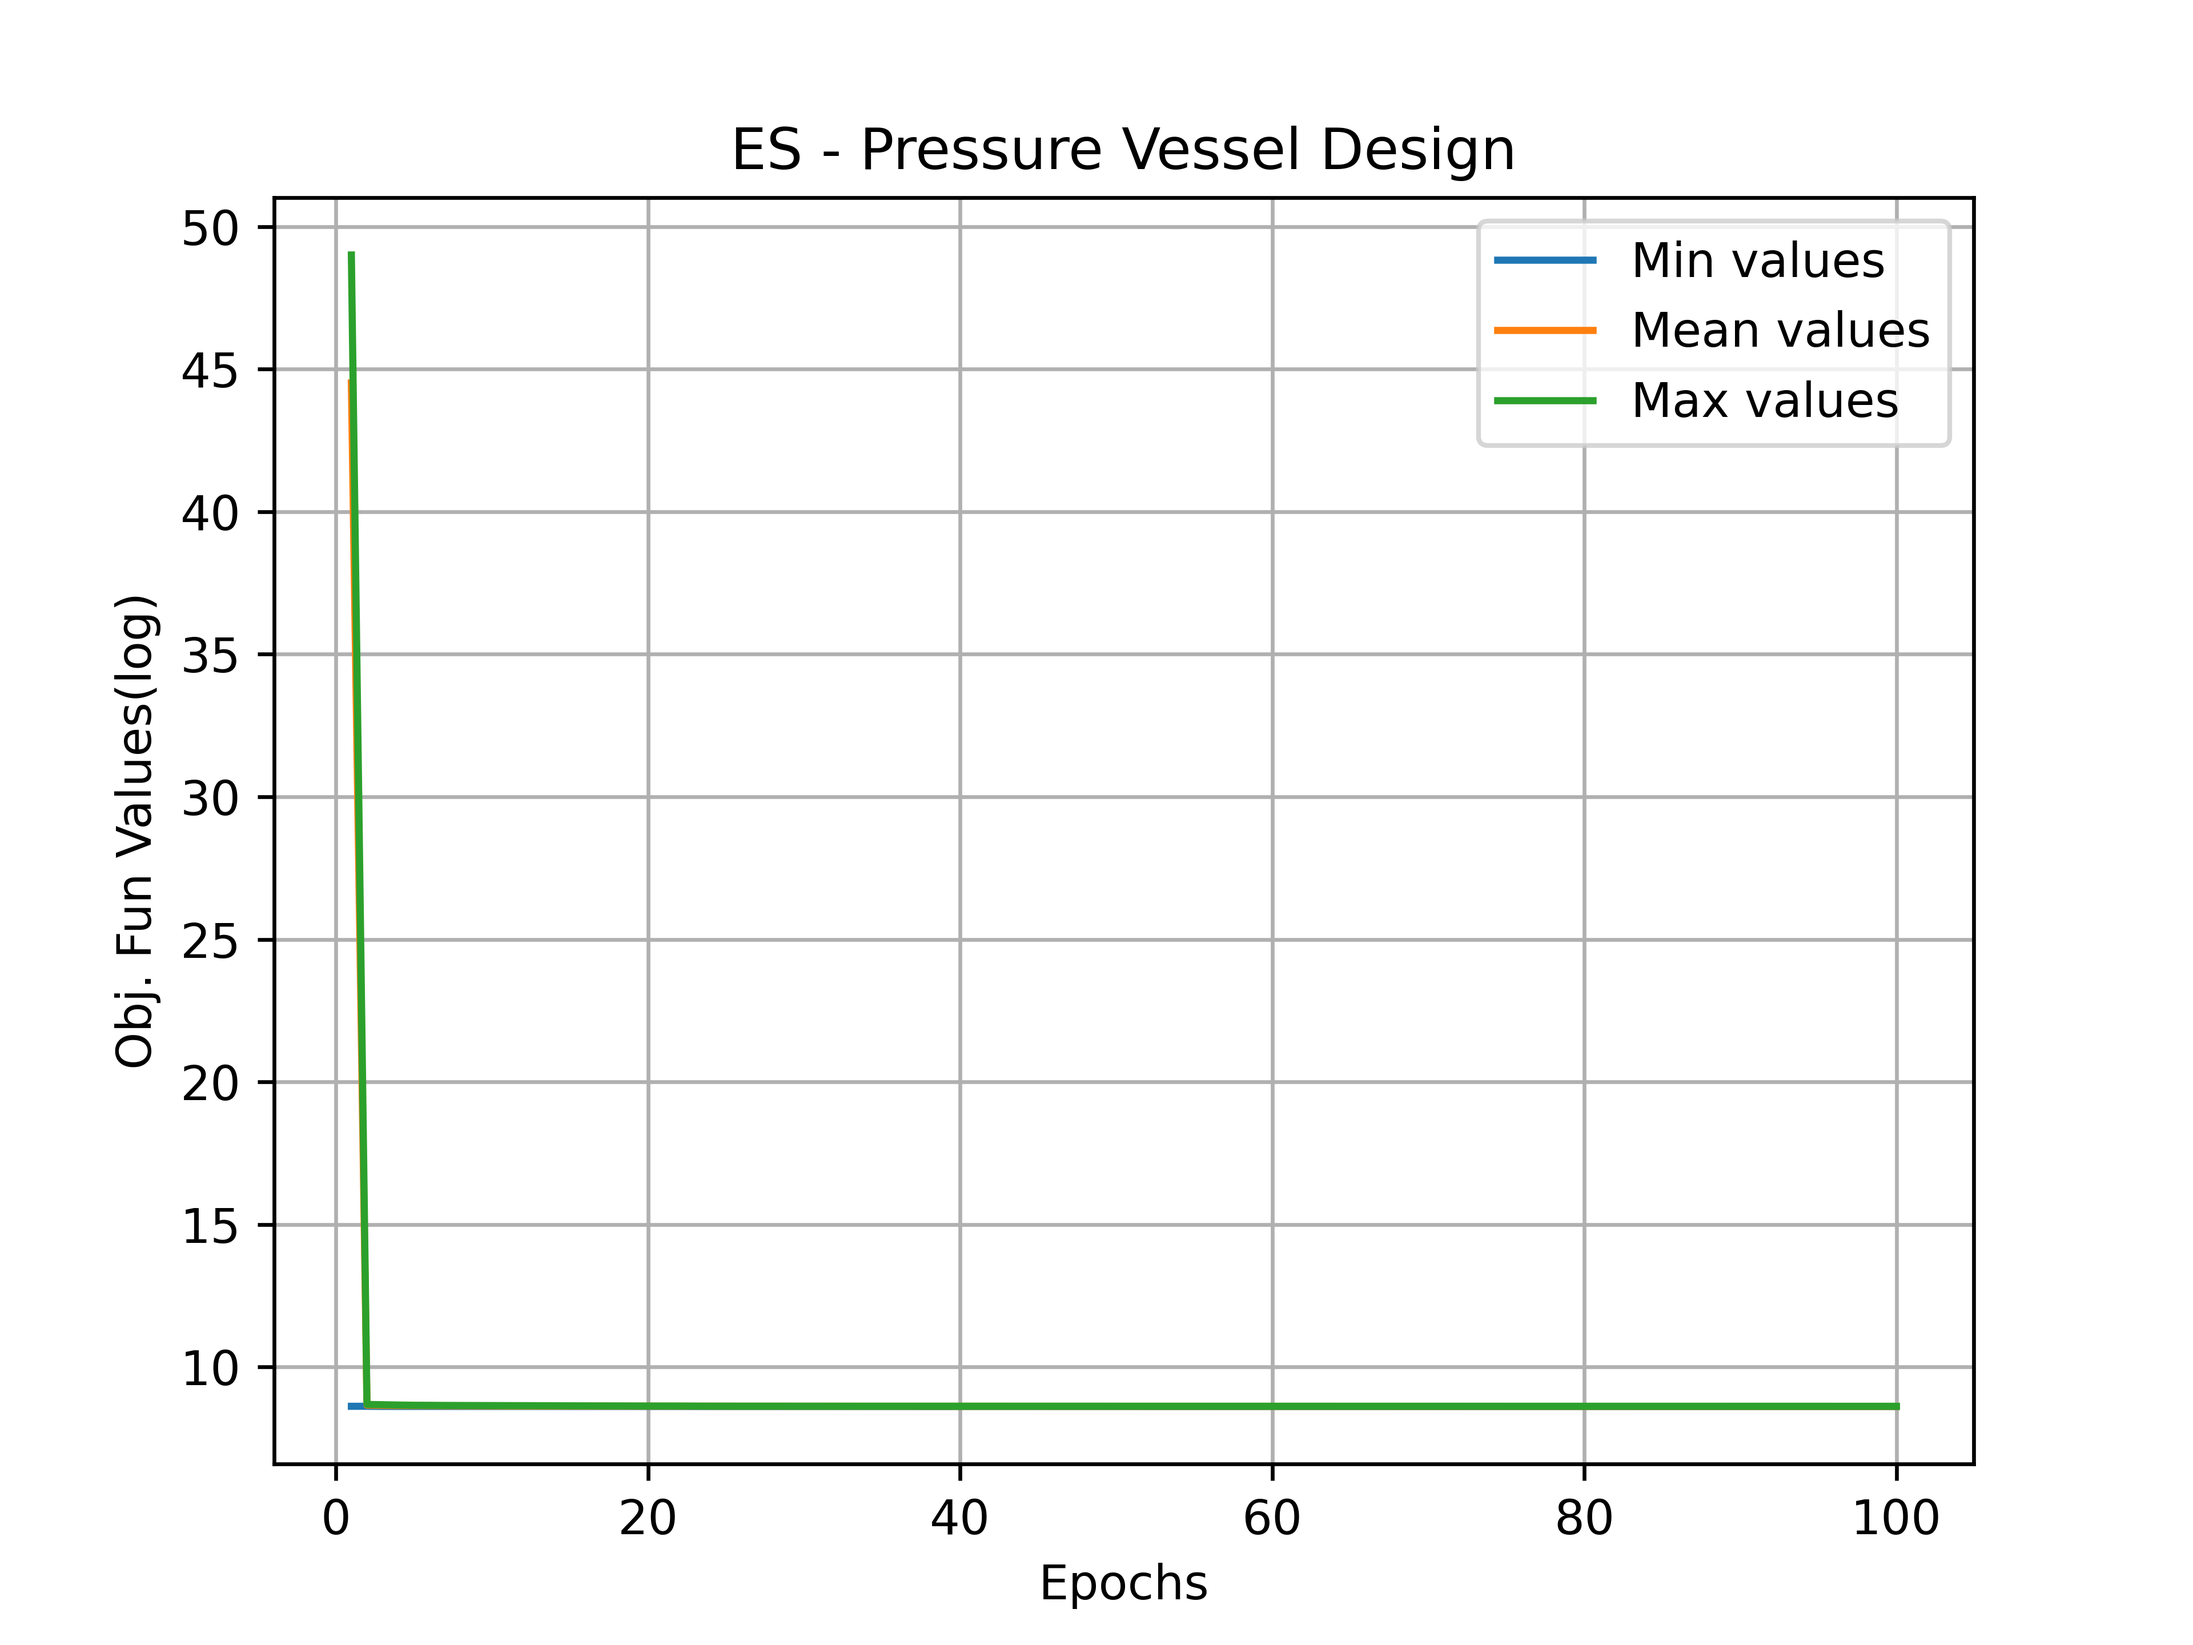
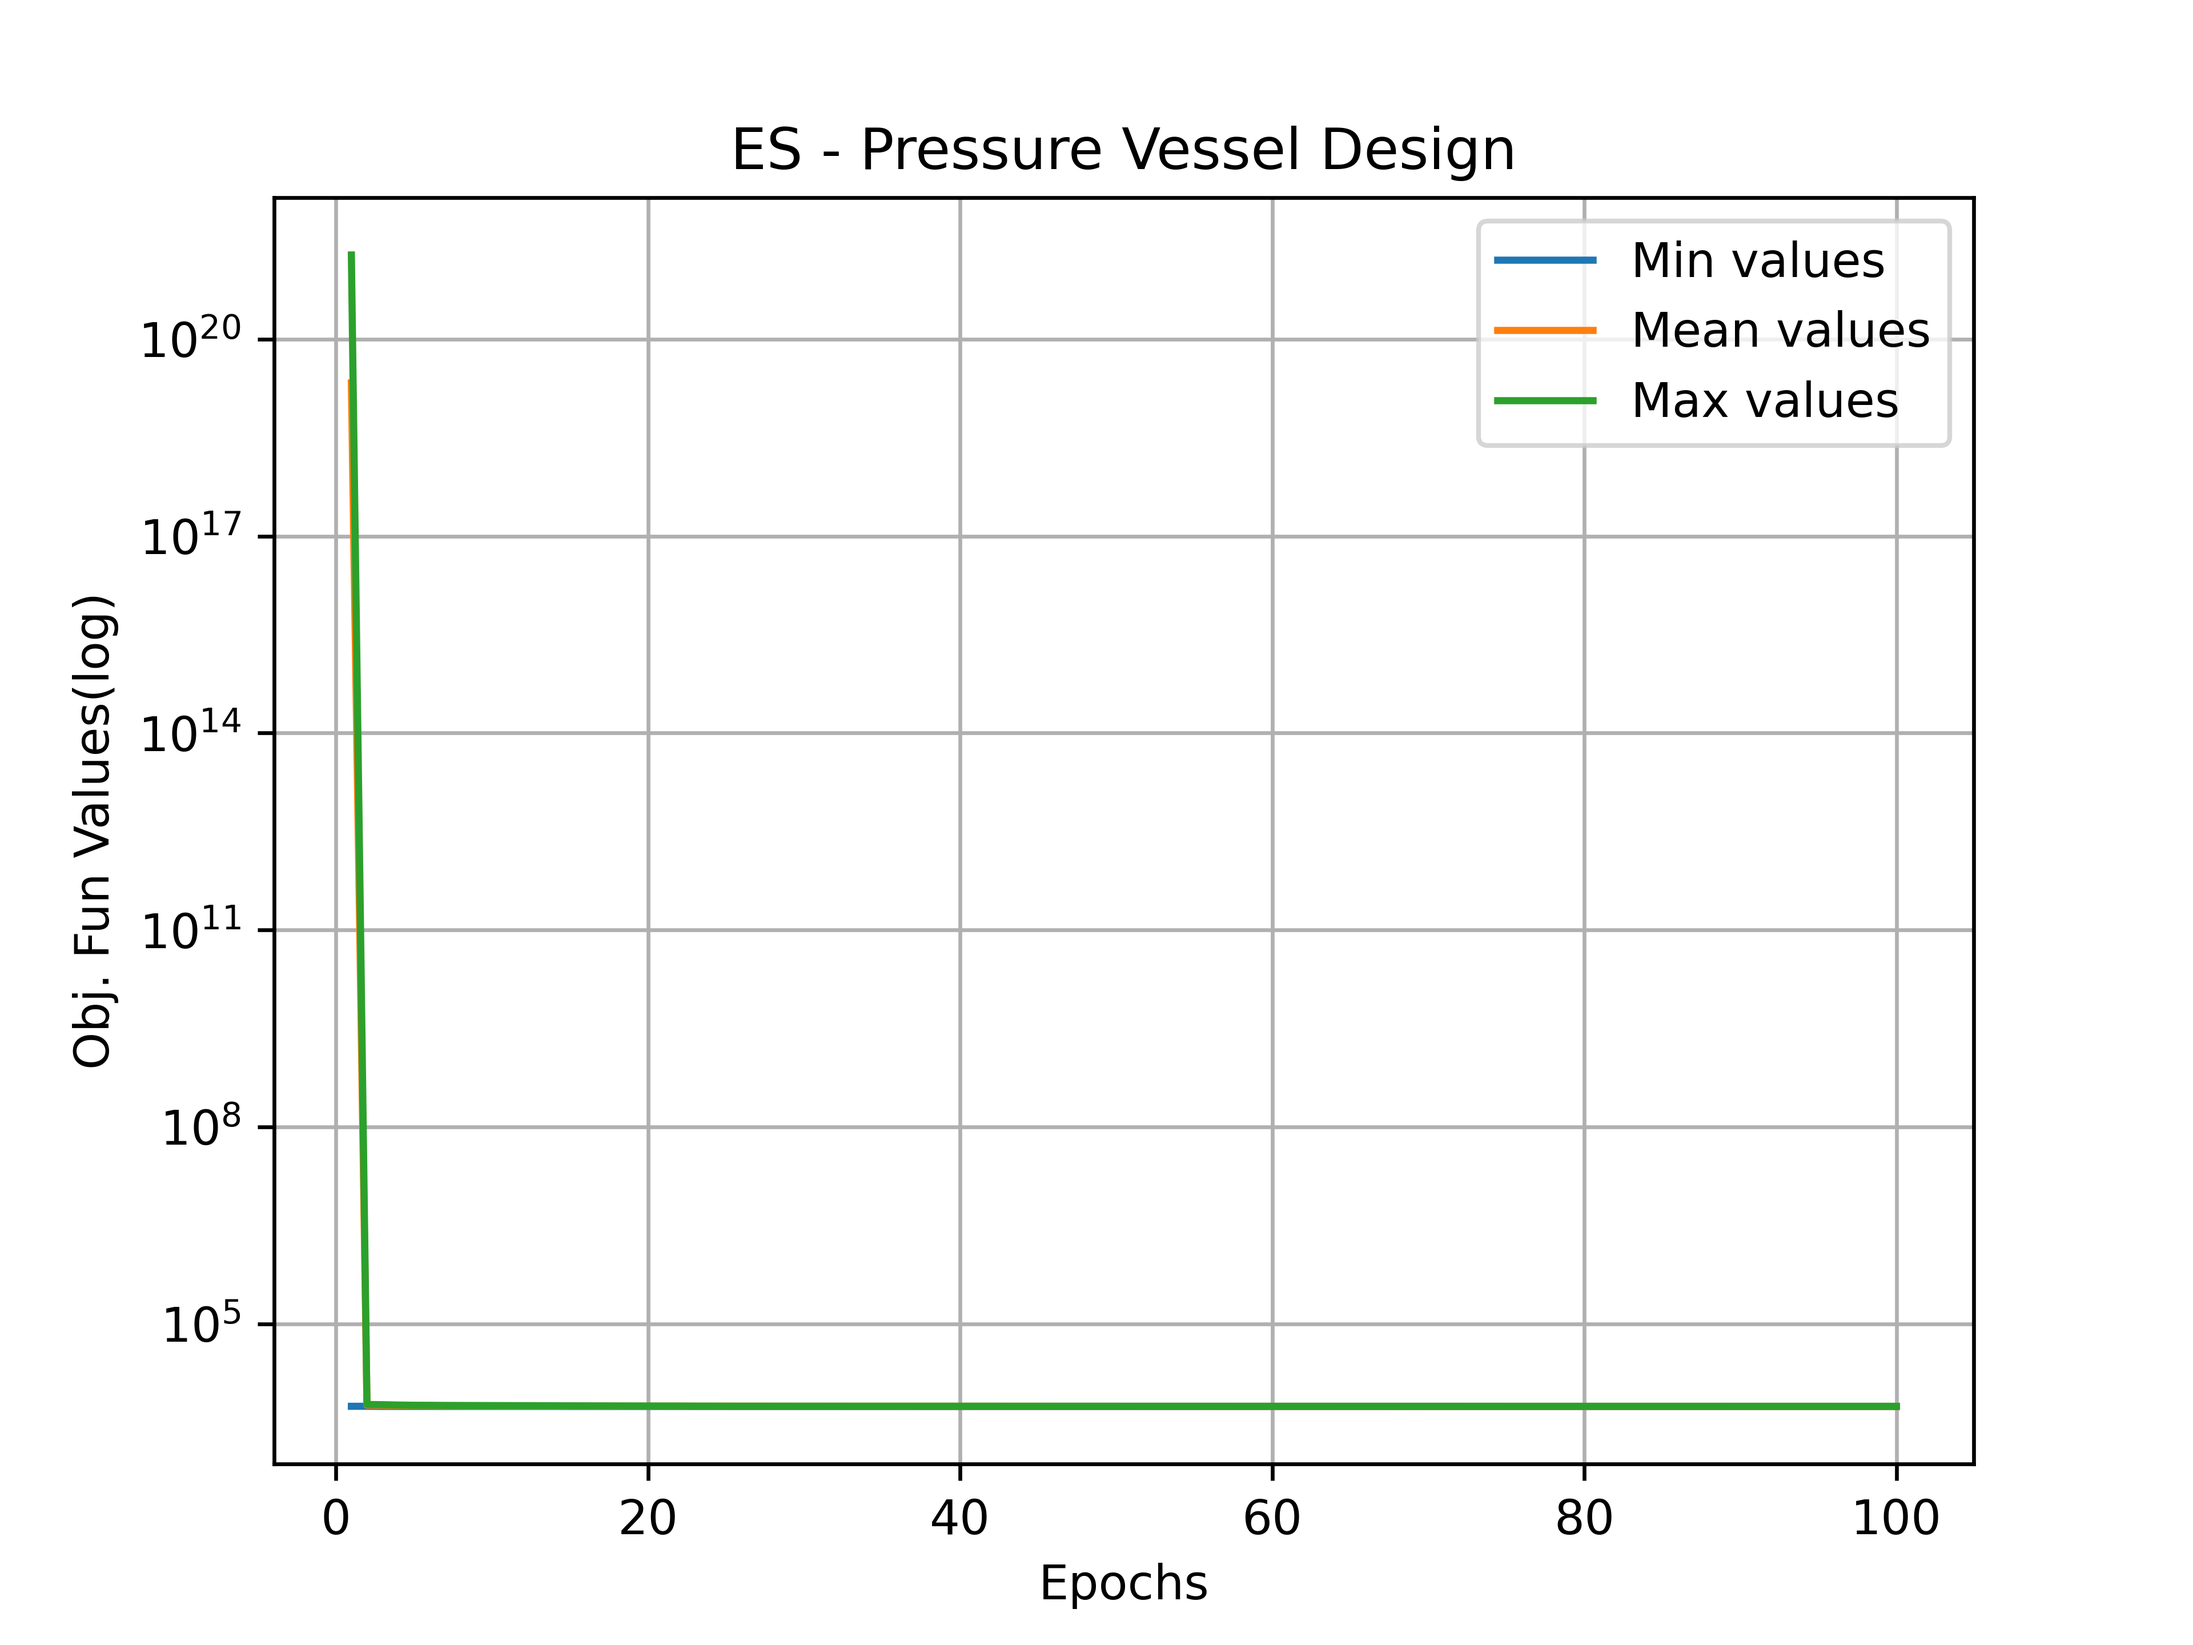
Tewaking article graphics

diff --git a/to_latex.py b/to_latex.py
@@ -111,13 +111,13 @@ for problem in population_data:
 
         x = np.linspace(1, len(min), len(min))
 
-        plt.plot(x, np.log(min), label="Min values")
+        plt.plot(x, min, label="Min values")
 
-        plt.plot(x, np.log(mean), label="Mean values")
+        plt.plot(x, mean, label="Mean values")
 
-        plt.plot(x, np.log(max), label="Max values")
+        plt.plot(x, max, label="Max values")
 
-        #: plt.yscale('log')
+        plt.yscale('log')
 
         plt.title(alg_desc[solver] + " - " + problem_desc[problem])
 
